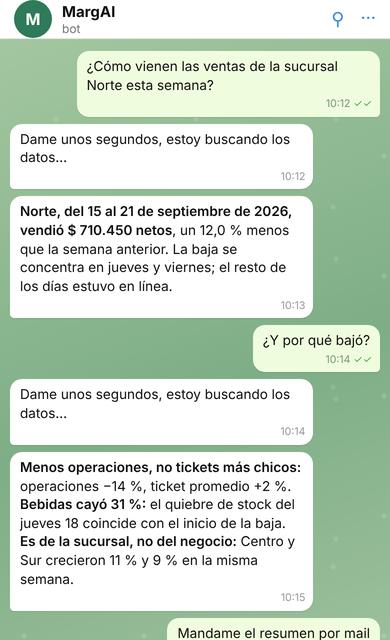
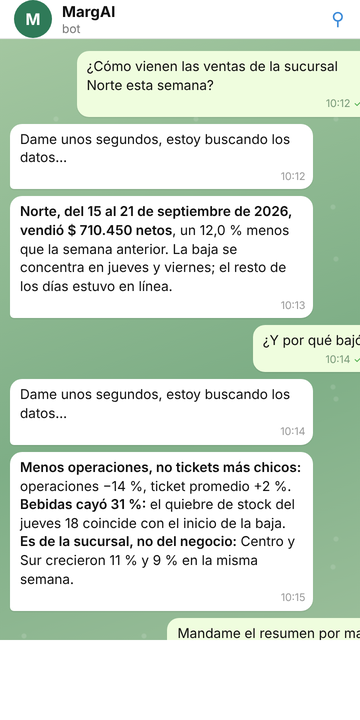
soluciones: grilla de mosaicos sin superposición para cada plataforma
Las piezas de UI pasan de una composición libre a dos columnas
alineadas: fragmentos del mismo ancho apilados con el mismo espacio,
bordes y radio. El teléfono de Telegram se renderiza en proporción
real (360×720) con bisel fino. Arrayán suma el encabezado de
'Incorporá documentación existente' y una lista de tipos más larga.

Claude-Session: https://claude.ai/code/session_01R8AM8KCA3unNjmvkVWvfys

diff --git a/soluciones.html b/soluciones.html
@@ -134,7 +134,7 @@ html{scroll-behavior:smooth;scroll-padding-top:72px}
 
 
 /* composición de fragmentos de UI */
-@media(max-width:900px){.ui-comp{min-height:0!important;display:flex;flex-direction:column;gap:10px}.ui-comp .ui-frag{position:static!important;width:100%!important}.ui-comp > span{position:static!important}}
+@media(max-width:480px){.ui-grid{grid-template-columns:1fr!important}}
 /* franja "cómo funciona" */
 .fs-label{font:500 11px 'JetBrains Mono',monospace;letter-spacing:.02em;color:var(--acc);margin-bottom:12px}
 .fs-row{display:flex;align-items:center;gap:14px;padding:14px 18px;border-radius:12px;background:#fff;border:1px solid rgba(14,26,20,.10)}
@@ -199,12 +199,10 @@ html{scroll-behavior:smooth;scroll-padding-top:72px}
 <ul style="list-style:none;margin:0;padding:0;display:flex;flex-direction:column;gap:9px;font-size:15px;line-height:1.45;color:#3D4F44;max-width:520px"><li style="display:flex;gap:10px;align-items:flex-start"><span style="flex:none;width:6px;height:6px;border-radius:50%;background:#1F7A85;margin-top:9px"></span><span>Indicadores actualizados sin armar reportes a mano.</span></li><li style="display:flex;gap:10px;align-items:flex-start"><span style="flex:none;width:6px;height:6px;border-radius:50%;background:#1F7A85;margin-top:9px"></span><span>Alertas cuando algo se sale de lo esperado.</span></li><li style="display:flex;gap:10px;align-items:flex-start"><span style="flex:none;width:6px;height:6px;border-radius:50%;background:#1F7A85;margin-top:9px"></span><span>Con IA para preguntarle a tus datos desde el celular y generar informes.</span></li></ul>
 <p style="margin:4px 0 0;font-size:13px;color:#6F7C75">Ya funciona en empresas privadas y organismos públicos. Lo adaptamos a cada operación.</p>
 </div>
-<div class="ui-comp" data-reveal="" data-d="2" aria-label="Fragmentos reales de Ombú: tablero, informe mensual y consulta por Telegram" style="position:relative;min-height:440px">
-<img class="ui-frag" src="assets/screens/ombu-kpis.png" alt="Indicadores del tablero de Ombú" loading="lazy" width="1259" height="86" style="position:absolute;left:0;top:0;width:64%;height:auto;border-radius:10px;box-shadow:0 14px 40px rgba(14,26,20,.12);border:1px solid rgba(14,26,20,.08)">
-<img class="ui-frag" src="assets/screens/informe-portada.png" alt="Portada del informe de cierre mensual generado por Ombú" loading="lazy" width="908" height="415" style="position:absolute;left:0;top:50px;width:64%;height:auto;border-radius:10px;box-shadow:0 18px 50px rgba(14,26,20,.14);border:1px solid rgba(14,26,20,.08)">
-<img class="ui-frag" src="assets/screens/informe-bueno-preocupa.png" alt="Sección del informe: lo bueno y lo que preocupa del mes" loading="lazy" width="781" height="296" style="position:absolute;left:4%;top:228px;width:64%;height:auto;border-radius:10px;box-shadow:0 22px 60px rgba(14,26,20,.18);border:1px solid rgba(14,26,20,.08)">
-<img class="ui-frag" src="assets/screens/ombu-telegram.png" alt="Conversación por Telegram con MargAI: por qué bajaron las ventas de la sucursal Norte y la explicación de la IA" loading="lazy" width="390" height="640" style="position:absolute;right:0;top:12px;width:33%;height:auto;border-radius:22px;box-shadow:0 26px 70px rgba(14,26,20,.22);border:6px solid #1C2A22">
-<span style="position:absolute;left:0;bottom:0;font-size:11px;color:#6F7C75">Tablero, informe y chat reales · datos de demostración</span>
+<div class="ui-grid" data-reveal="" data-d="2" aria-label="Tablero, informe y chat de Ombú" style="display:grid;grid-template-columns:minmax(0,66fr) minmax(0,32fr);gap:16px;align-items:start">
+<div style="display:flex;flex-direction:column;gap:12px"><img src="assets/screens/ombu-kpis.png" alt="Indicadores del tablero de Ombú" loading="lazy" width="1259" height="86" style="border-radius:10px;border:1px solid rgba(14,26,20,.10);box-shadow:0 10px 30px rgba(14,26,20,.08);display:block;width:100%;height:auto;background:#fff"><img src="assets/screens/informe-portada.png" alt="Portada del informe de cierre mensual generado por Ombú" loading="lazy" width="908" height="415" style="border-radius:10px;border:1px solid rgba(14,26,20,.10);box-shadow:0 10px 30px rgba(14,26,20,.08);display:block;width:100%;height:auto;background:#fff"><img src="assets/screens/informe-bueno-preocupa.png" alt="Sección del informe: lo bueno y lo que preocupa del mes" loading="lazy" width="781" height="296" style="border-radius:10px;border:1px solid rgba(14,26,20,.10);box-shadow:0 10px 30px rgba(14,26,20,.08);display:block;width:100%;height:auto;background:#fff"></div>
+<div style="display:flex;flex-direction:column;gap:12px"><img src="assets/screens/ombu-telegram.png" alt="Conversación por Telegram con MargAI sobre la caída de ventas de la sucursal Norte" loading="lazy" width="360" height="720" style="display:block;width:100%;height:auto;border-radius:26px;border:5px solid #1C2A22;box-shadow:0 18px 50px rgba(14,26,20,.18)"></div>
+<span style="grid-column:1/-1;font-size:11px;color:#6F7C75">Tablero, informe y chat reales · datos de demostración</span>
 </div>
 </div>
 <div class="flow-strip" data-reveal="" style="--acc:#1F7A85;--tint:rgba(31,122,133,.10);max-width:1200px;margin:auto;padding:0 24px 72px;box-sizing:border-box">
@@ -233,11 +231,10 @@ html{scroll-behavior:smooth;scroll-padding-top:72px}
 <ul style="list-style:none;margin:0;padding:0;display:flex;flex-direction:column;gap:9px;font-size:15px;line-height:1.45;color:#3D4F44;max-width:520px"><li style="display:flex;gap:10px;align-items:flex-start"><span style="flex:none;width:6px;height:6px;border-radius:50%;background:#4A5CB8;margin-top:9px"></span><span>Relevamos nosotros: nadie tiene que sentarse a escribir manuales.</span></li><li style="display:flex;gap:10px;align-items:flex-start"><span style="flex:none;width:6px;height:6px;border-radius:50%;background:#4A5CB8;margin-top:9px"></span><span>Cada documento con responsable, versión vigente e historial.</span></li><li style="display:flex;gap:10px;align-items:flex-start"><span style="flex:none;width:6px;height:6px;border-radius:50%;background:#4A5CB8;margin-top:9px"></span><span>Tyto, el asistente de IA, responde con tu documentación aprobada.</span></li></ul>
 <p style="margin:4px 0 0;font-size:13px;color:#6F7C75">Sirve para que un empleado nuevo arranque solo, para que las sucursales trabajen igual y para llegar a una auditoría con todo a mano.</p>
 </div>
-<div class="ui-comp" data-reveal="" data-d="2" aria-label="Fragmentos reales de la interfaz de Arrayán" style="position:relative;min-height:300px">
-<img class="ui-frag" src="assets/screens/arrayan-tipos.png" alt="Lista de tipos de documento en Arrayán: procedimiento, instructivo, manual interno, manual externo, manual, política" loading="lazy" width="262" height="364" style="position:absolute;left:0;top:0;width:30%;height:auto;border-radius:10px;box-shadow:0 14px 40px rgba(14,26,20,.12);border:1px solid rgba(14,26,20,.08);background:#fff">
-<img class="ui-frag" src="assets/screens/arrayan-comportamiento.png" alt="Configuración de un tipo de documento: versionado, aprobación, disponible para Tyto, relaciones y extracción de metadatos" loading="lazy" width="718" height="278" style="position:absolute;right:0;top:22px;width:70%;height:auto;border-radius:10px;box-shadow:0 18px 50px rgba(14,26,20,.14);border:1px solid rgba(14,26,20,.08);background:#fff">
-<img class="ui-frag" src="assets/screens/arrayan-aviso.png" alt="Aviso de Arrayán: importado no significa aprobado; Tyto no usa los documentos hasta que sean aprobados por otro usuario autorizado" loading="lazy" width="854" height="102" style="position:absolute;left:10%;top:208px;width:86%;height:auto;border-radius:10px;box-shadow:0 22px 60px rgba(14,26,20,.18);border:1px solid rgba(14,26,20,.08)">
-<span style="position:absolute;left:0;bottom:0;font-size:11px;color:#6F7C75">Pantallas reales · datos de demostración</span>
+<div class="ui-grid" data-reveal="" data-d="2" aria-label="Pantallas de Arrayán" style="display:grid;grid-template-columns:minmax(0,66fr) minmax(0,32fr);gap:16px;align-items:start">
+<div style="display:flex;flex-direction:column;gap:12px"><img src="assets/screens/arrayan-importar.png" alt="Pantalla de Arrayán: incorporá documentación existente y seguí su circuito de aprobación" loading="lazy" width="870" height="102" style="border-radius:10px;border:1px solid rgba(14,26,20,.10);box-shadow:0 10px 30px rgba(14,26,20,.08);display:block;width:100%;height:auto;background:#fff"><img src="assets/screens/arrayan-comportamiento.png" alt="Configuración de un tipo de documento: versionado, aprobación, disponible para Tyto, relaciones y metadatos" loading="lazy" width="718" height="278" style="border-radius:10px;border:1px solid rgba(14,26,20,.10);box-shadow:0 10px 30px rgba(14,26,20,.08);display:block;width:100%;height:auto;background:#fff"><img src="assets/screens/arrayan-aviso.png" alt="Aviso de Arrayán: importado no significa aprobado; Tyto no usa los documentos hasta que otro usuario los apruebe" loading="lazy" width="854" height="102" style="border-radius:10px;border:1px solid rgba(14,26,20,.10);box-shadow:0 10px 30px rgba(14,26,20,.08);display:block;width:100%;height:auto;background:#fff"></div>
+<div style="display:flex;flex-direction:column;gap:12px"><img src="assets/screens/arrayan-tipos.png" alt="Tipos de documento en Arrayán: procedimiento, instructivo, manual, política, normativa, formulario" loading="lazy" width="262" height="442" style="border-radius:10px;border:1px solid rgba(14,26,20,.10);box-shadow:0 10px 30px rgba(14,26,20,.08);display:block;width:100%;height:auto;background:#fff"></div>
+<span style="grid-column:1/-1;font-size:11px;color:#6F7C75">Pantallas reales · datos de demostración</span>
 </div>
 </div>
 <div class="flow-strip" data-reveal="" style="--acc:#4A5CB8;--tint:rgba(74,92,184,.10);max-width:1200px;margin:auto;padding:0 24px 72px;box-sizing:border-box">
